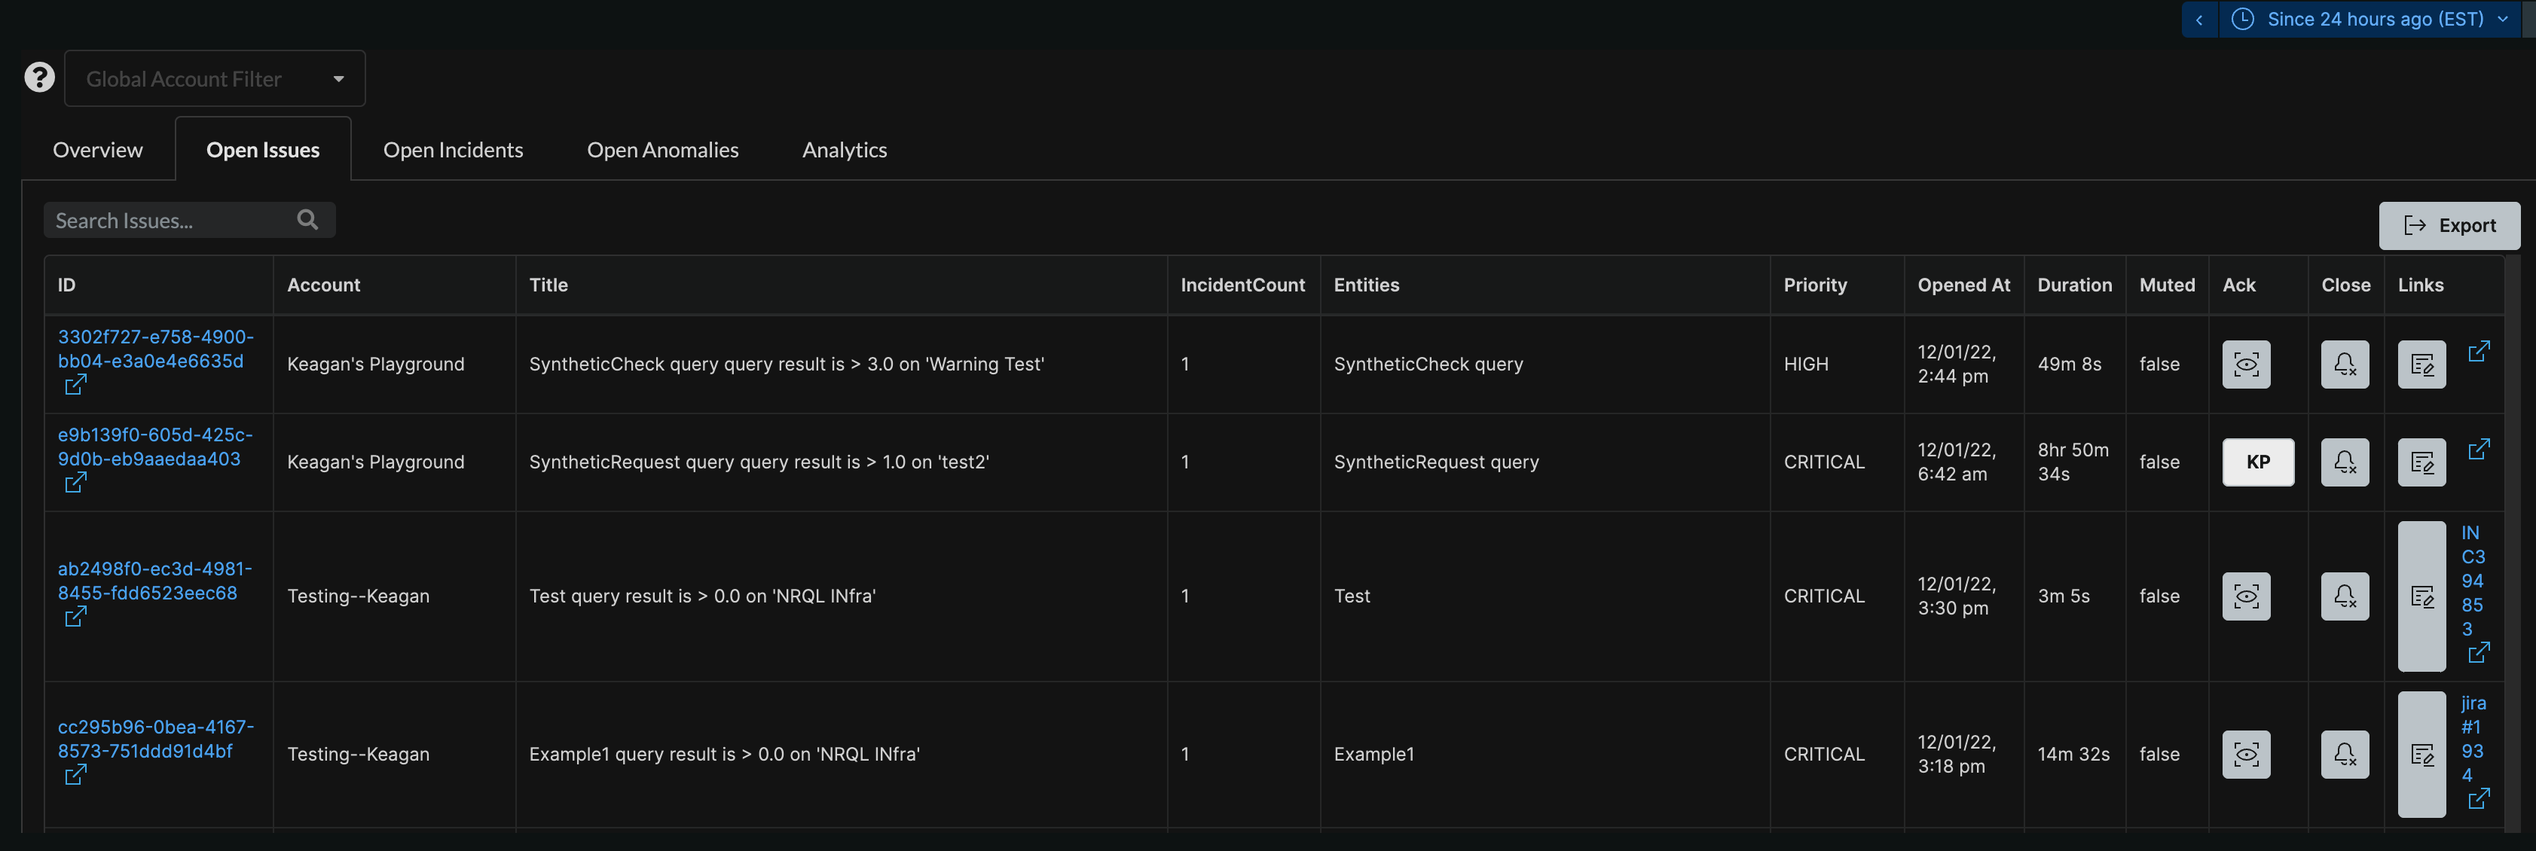
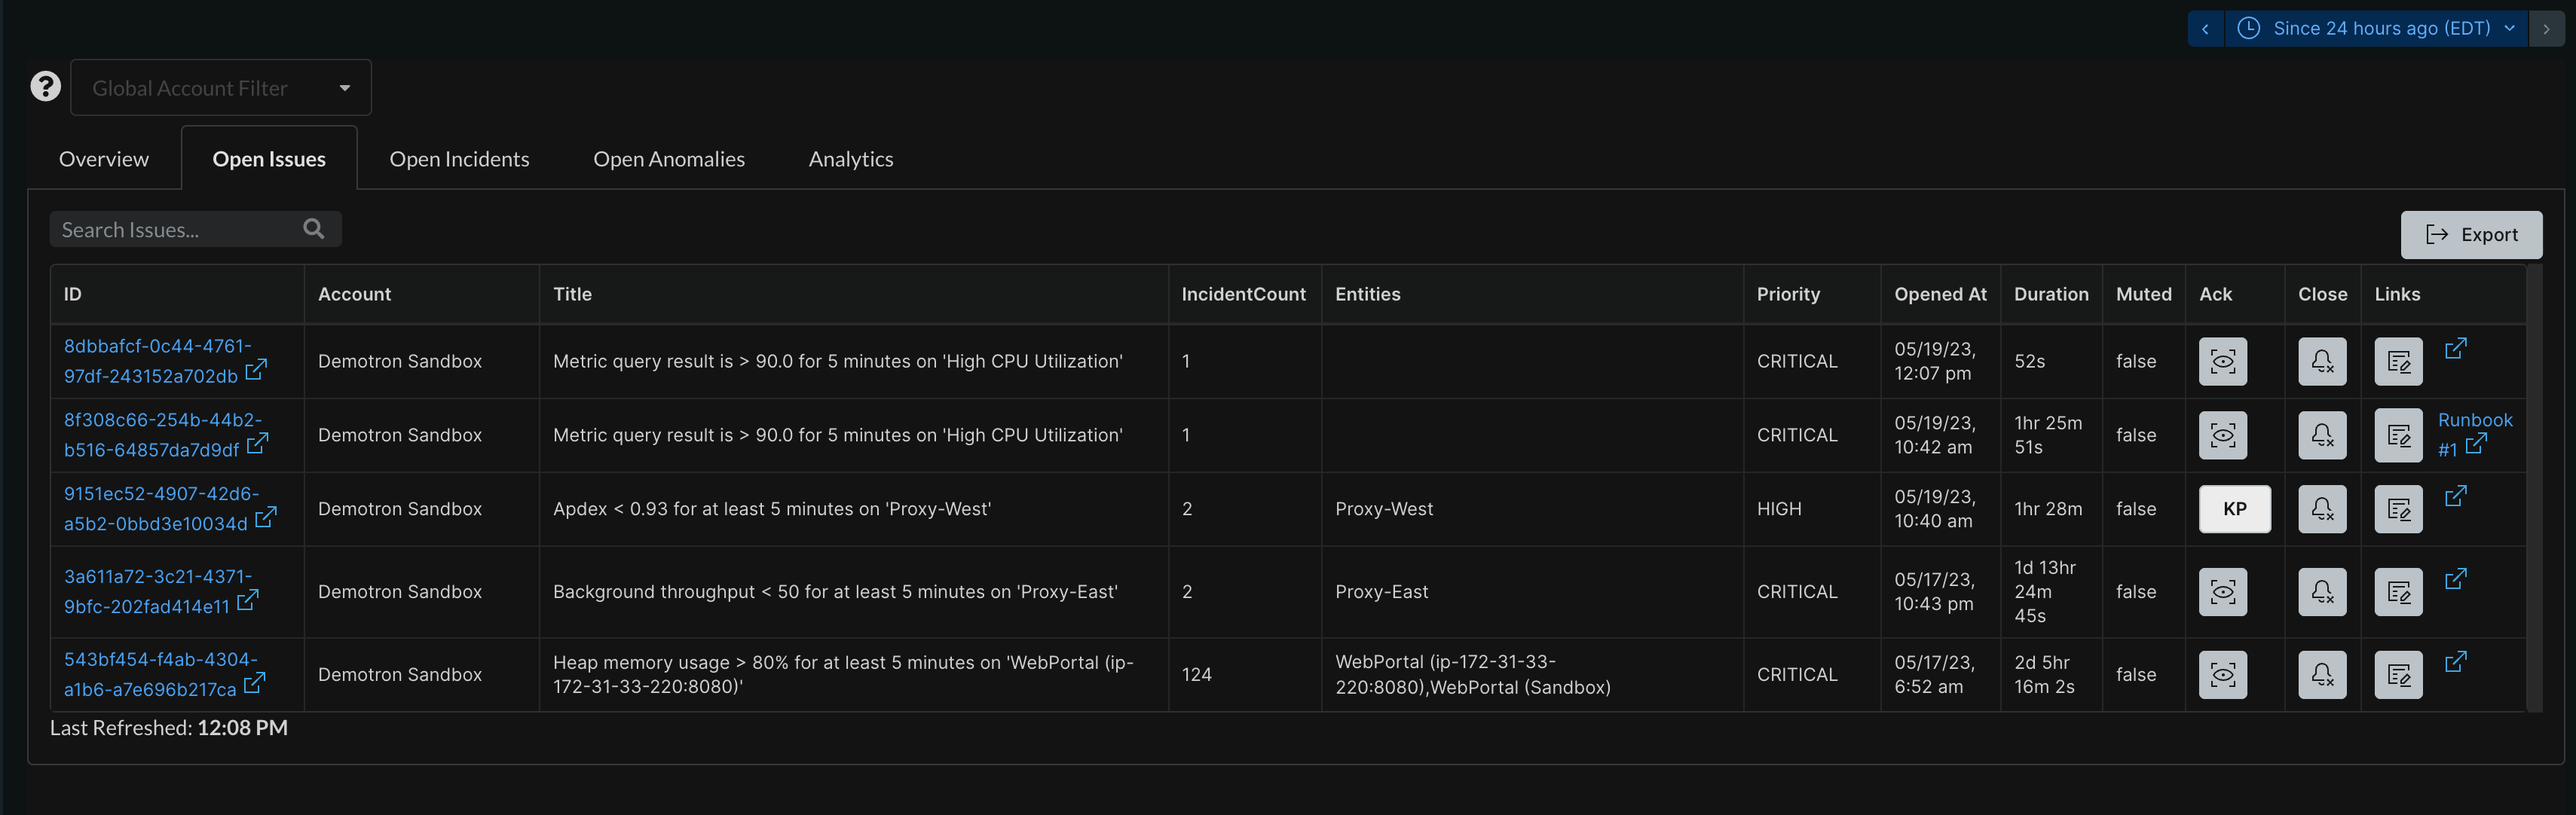
feature: inc close + general cleanup

diff --git a/nerdlets/command-center-v2-nerdlet/open-violations.js b/nerdlets/command-center-v2-nerdlet/open-violations.js
@@ -6,6 +6,7 @@ import {
   HeadingText,
   Modal,
   Icon,
+  NerdGraphMutation,
   NerdGraphQuery,
   Spinner,
   TextField,
@@ -42,7 +43,9 @@ export default class OpenIncidents extends React.Component {
       rowAccountId: null,
       rowIncidentId: null,
       ackModalHidden: true,
+      closeModalHidden: true,
       incToAck: null,
+      incToClose: null,
       currentTime: null
     };
   }
@@ -87,7 +90,7 @@ export default class OpenIncidents extends React.Component {
     Promise.all(vioProms).then(violations => {
       const allViolations = [];
       for (const vSet of violations) {
-        const vArray = vSet.violations.map(v => v.deprecatedIncidentId);
+        const vArray = vSet.violations.map(v => `'${v.incidentId}'`).join(',');
         allViolations.push(this.getViolationData(vSet, vArray.toString()));
       }
 
@@ -110,7 +113,7 @@ export default class OpenIncidents extends React.Component {
           let noteDisplay = null;
           let noteLink = null;
           for (let p = 0; p < links.length; p++) {
-            if (formattedTable[k].deprecatedIncidentId == Number(links[p].id)) {
+            if (formattedTable[k].incidentId == Number(links[p].id)) {
               noteDisplay = links[p].document.displayText;
               noteLink = links[p].document.linkText;
               break;
@@ -233,7 +236,7 @@ export default class OpenIncidents extends React.Component {
 
     switch (clickedCol) {
       case 'ID':
-        translated = 'deprecatedIncidentId';
+        translated = 'incidentId';
         break;
       case 'Account':
         translated = 'accountName';
@@ -310,7 +313,7 @@ export default class OpenIncidents extends React.Component {
     this.setState({
       linkModalHidden: false,
       rowAccountId: row['account.id'],
-      rowIncidentId: row.deprecatedIncidentId
+      rowIncidentId: row.incidentId
     });
   }
 
@@ -343,7 +346,7 @@ export default class OpenIncidents extends React.Component {
 
   updateLinkCell(d, l, iKey) {
     const currentIndex = this.state.tableData.findIndex(
-      inc => inc.deprecatedIncidentId === iKey
+      inc => inc.incidentId === iKey
     );
     const tableCopy = [...this.state.tableData];
     tableCopy[currentIndex].display = d;
@@ -425,7 +428,7 @@ export default class OpenIncidents extends React.Component {
 
     linksFromNerdStore.forEach(lnk => {
       const index = loadedData.findIndex(
-        v => v.deprecatedIncidentId == Number(lnk.id)
+        v => v.incidentId == Number(lnk.id)
       );
       if (index === -1) {
         this.deleteLinkFromNerdStore(lnk.id);
@@ -445,7 +448,7 @@ export default class OpenIncidents extends React.Component {
   openAckModal(row) {
     this.setState({
       ackModalHidden: false,
-      incToAck: row.deprecatedIncidentId
+      incToAck: row.incidentId
     });
   }
 
@@ -521,6 +524,64 @@ export default class OpenIncidents extends React.Component {
     });
   }
 
+  openCloseModal(row) {
+    this.setState({
+      closeModalHidden: false,
+      incToClose: row.incidentId,
+      rowAccountId: row['account.id']
+    });
+  }
+
+  _onCloseModal() {
+    this.setState({
+      closeModalHidden: true,
+      incToClose: null,
+      rowAccountId: null
+    });
+  }
+
+  removeRow(incidentToClose) {
+    let { filteredTableData } = this.state;
+
+    let filteredTableDataCopy = filteredTableData.filter(item => item.incidentId !== incidentToClose)
+
+    this.setState({
+      filteredTableData: filteredTableDataCopy
+    });
+  }
+
+  async closeIncident() {
+    const { incToClose, rowAccountId } = this.state;
+    let mutation = `
+        mutation {
+          aiIssuesCloseIncident(accountId: ${rowAccountId}, incidentId: "${incToClose}") {
+            error
+            incidentId
+            accountId
+          }
+        }
+      `;
+
+      const res = await NerdGraphMutation.mutate({
+        mutation: mutation
+      });
+
+      if (res.error || res.data.aiIssuesCloseIncident.error) {
+        console.debug(`Failed to close incident: ${incToClose} within account: ${rowAccountId}`);
+        Toast.showToast({
+          title: 'Failed to close incident.',
+          type: Toast.TYPE.CRITICAL
+        });
+      } else {
+        await this.removeRow(incToClose) //remove row from table
+        this.setState({ closeModalHidden: true });
+        Toast.showToast({
+          title: 'Incident closed!',
+          type: Toast.TYPE.Normal
+        });
+      }
+  }
+
   renderTable() {
     const {
       searchText,
@@ -567,9 +628,6 @@ export default class OpenIncidents extends React.Component {
                 if (header == 'Ack') {
                   toolTipText = 'No GQL API available for incident acknowledgement';
                 }
-                if (header == 'Close') {
-                  toolTipText = 'No GQL API available for incident closure';
-                }
                 if (header == 'Description') {
                   toolTipText = 'Custom Violation Description'
                 }
@@ -594,7 +652,7 @@ export default class OpenIncidents extends React.Component {
                 <Table.Row key={p}>
                   <Table.Cell>
                     <a href={row.incidentLink} target="_blank" rel="noreferrer">
-                      {row.deprecatedIncidentId}
+                      {row.incidentId}
                     </a>
                   </Table.Cell>
                   <Table.Cell><p>{row.accountName}</p></Table.Cell>
@@ -632,7 +690,7 @@ export default class OpenIncidents extends React.Component {
                   </Table.Cell>
                   <Table.Cell>
                     <Button
-                      disabled
+                      onClick={() => this.openCloseModal(row)}
                       type={Button.TYPE.PRIMARY}
                       iconType={
                         Button.ICON_TYPE.INTERFACE__OPERATIONS__ALERT__A_REMOVE
@@ -773,6 +831,30 @@ export default class OpenIncidents extends React.Component {
               type={Button.TYPE.DESTRUCTIVE}
               className="modalBtn"
               onClick={() => this._onCloseAckModal()}
+            >
+              No
+            </Button>
+          </Modal>
+          <Modal
+            hidden={this.state.closeModalHidden}
+            onClose={() => this._onCloseModal()}
+          >
+            <HeadingText>
+              <strong>
+                Are you sure you want to close this incident?
+              </strong>
+            </HeadingText>
+            <Button
+              type={Button.TYPE.PRIMARY}
+              className="modalBtn"
+              onClick={() => this.closeIncident()}
+            >
+              Yes
+            </Button>
+            <Button
+              type={Button.TYPE.DESTRUCTIVE}
+              className="modalBtn"
+              onClick={() => this._onCloseModal()}
             >
               No
             </Button>

diff --git a/nerdlets/command-center-v2-nerdlet/open-issues.js b/nerdlets/command-center-v2-nerdlet/open-issues.js
@@ -117,8 +117,9 @@ export default class OpenIssues extends React.Component {
     }
 
     Promise.all(issueProms).then(issues => {
-      console.log(issues);
+      let entities = "";
       for (let k=0; k < issues.length; k++) {
+        entities = "";
         if (issues[k].issues.length > 0) {
           for (let i=0; i < issues[k].issues.length; i++) {
             issues[k].issues[i].accountName = issues[k].account;
@@ -143,11 +144,15 @@ export default class OpenIssues extends React.Component {
               }
             }
 
+            if (typeof issues[k].issues[i].relatedEntityName !== "undefined" && issues[k].issues[i].relatedEntityName !== null) {
+              entities = issues[k].issues[i].relatedEntityName.toString();
+            }
+
             const oneExportableResult = {
               Account: issues[k].account,
               Title: issues[k].issues[i].name,
               IncidentCount: issues[k].issues[i].incidentCount,
-              Entities: issues[k].issues[i].relatedEntityName.toString(),
+              Entities: entities,
               Priority: issues[k].issues[i].priority,
               Muted: issues[k].issues[i].mutingState,
               'Opened At': moment.unix(activated).format(
@@ -246,8 +251,6 @@ export default class OpenIssues extends React.Component {
 
       if (nextCursor == null) {
         allIssues = allIssues.concat(issues);
-        console.log('all');
-        console.log(allIssues)
         const oneAccount = {
           account: acct.name,
           id: acct.id,
@@ -708,7 +711,7 @@ export default class OpenIssues extends React.Component {
       });
 
       if (res.error) {
-        console.debug(`Failed to close issue: ${issue} within account: ${acctId}`);
+        console.debug(`Failed to close issue: ${issueToClose} within account: ${rowAccountId}`);
         Toast.showToast({
           title: 'Failed to close issue.',
           type: Toast.TYPE.CRITICAL
@@ -716,6 +719,10 @@ export default class OpenIssues extends React.Component {
       } else {
         await this.removeRow(issueToClose) //remove row from table
         this.setState({ closeModalHidden: true });
+        Toast.showToast({
+          title: 'Issue closed!',
+          type: Toast.TYPE.Normal
+        });
       }
   }
 
@@ -825,7 +832,7 @@ export default class OpenIssues extends React.Component {
                   <Table.Cell>{row.accountName}</Table.Cell>
                   <Table.Cell>{row.name}</Table.Cell>
                   <Table.Cell>{row.incidentCount}</Table.Cell>
-                  <Table.Cell><p style={{wordBreak: 'break-word'}}>{row.relatedEntityName.toString()}</p></Table.Cell>
+                  <Table.Cell><p style={{wordBreak: 'break-word'}}>{typeof row.relatedEntityName == "undefined" ? "" : row.relatedEntityName.toString()}</p></Table.Cell>
                   <Table.Cell>{row.priority}</Table.Cell>
                   <Table.Cell>
                     {moment.unix(a).format('MM/DD/YY, h:mm a')}

diff --git a/nerdlets/command-center-v2-nerdlet/utils.js b/nerdlets/command-center-v2-nerdlet/utils.js
@@ -66,7 +66,7 @@ module.exports = {
     {
       actor {
         account(id: ${account}) {
-          nrql(query: "SELECT deprecatedIncidentId, priority FROM (SELECT uniqueCount(event) as 'total', latest(event) as 'state', latest(priority) as 'priority' FROM NrAiIncident where event in ('open','close') facet deprecatedIncidentId limit max) where total=1 and state='open' limit max ${time}") {
+          nrql(query: "SELECT incidentId, priority FROM (SELECT uniqueCount(event) as 'total', latest(event) as 'state', latest(priority) as 'priority' FROM NrAiIncident where event in ('open','close') and evaluationType != 'anomaly' facet incidentId limit max) where total=1 and state='open' limit max ${time}") {
             results
           }
         }
@@ -80,7 +80,7 @@ module.exports = {
     {
       actor {
         account(id: ${account}) {
-          nrql(query: "FROM NrAiIncident SELECT deprecatedIncidentId, account.id, title, targetName, policyName, conditionName, openTime, priority, muted, incidentLink, description where deprecatedIncidentId IN (${vios}) and event = 'open' LIMIT MAX ${time}") {
+          nrql(query: "FROM NrAiIncident SELECT incidentId, account.id, title, targetName, policyName, conditionName, openTime, priority, muted, incidentLink, description where incidentId IN (${vios}) and event = 'open' LIMIT MAX ${time}") {
             results
           }
         }

diff --git a/nerdlets/command-center-v2-nerdlet/splash.js b/nerdlets/command-center-v2-nerdlet/splash.js
@@ -86,7 +86,6 @@ export default class Splash extends React.Component {
 
           if (nextCursor == null) {
             anAccountsIssues = anAccountsIssues.concat(issueCounts);
-            console.log(anAccountsIssues);
 
             let criticalCount = anAccountsIssues.filter(issue => {
               let priorityObj = issue.tags.find(k => k.key == 'priority');

diff --git a/README.md b/README.md
@@ -13,7 +13,7 @@ This application aggregates incidents, anomalies, and issues across many account
 - Holistic, filterable/exportable view of open incidents, issues, and anomalies across many accounts.
 - Auto refresh configuration of open incidents, issues, and anomalies
 - Persistent links to correlate with individual incidents and issues
-- Acknowledge and close issues directly in list view
+- Acknowledge and close issues/incidents directly in list view
 - Analytics for total issue count, accumulated issue minutes, MTTR, and % of issues closed under 5 minutes.
 - Configurable linked dashboard that can be used as a tool for operational/reliability reviews. [Template provided here - this can be added to all accounts](dashboards/ops_template.json)
 
